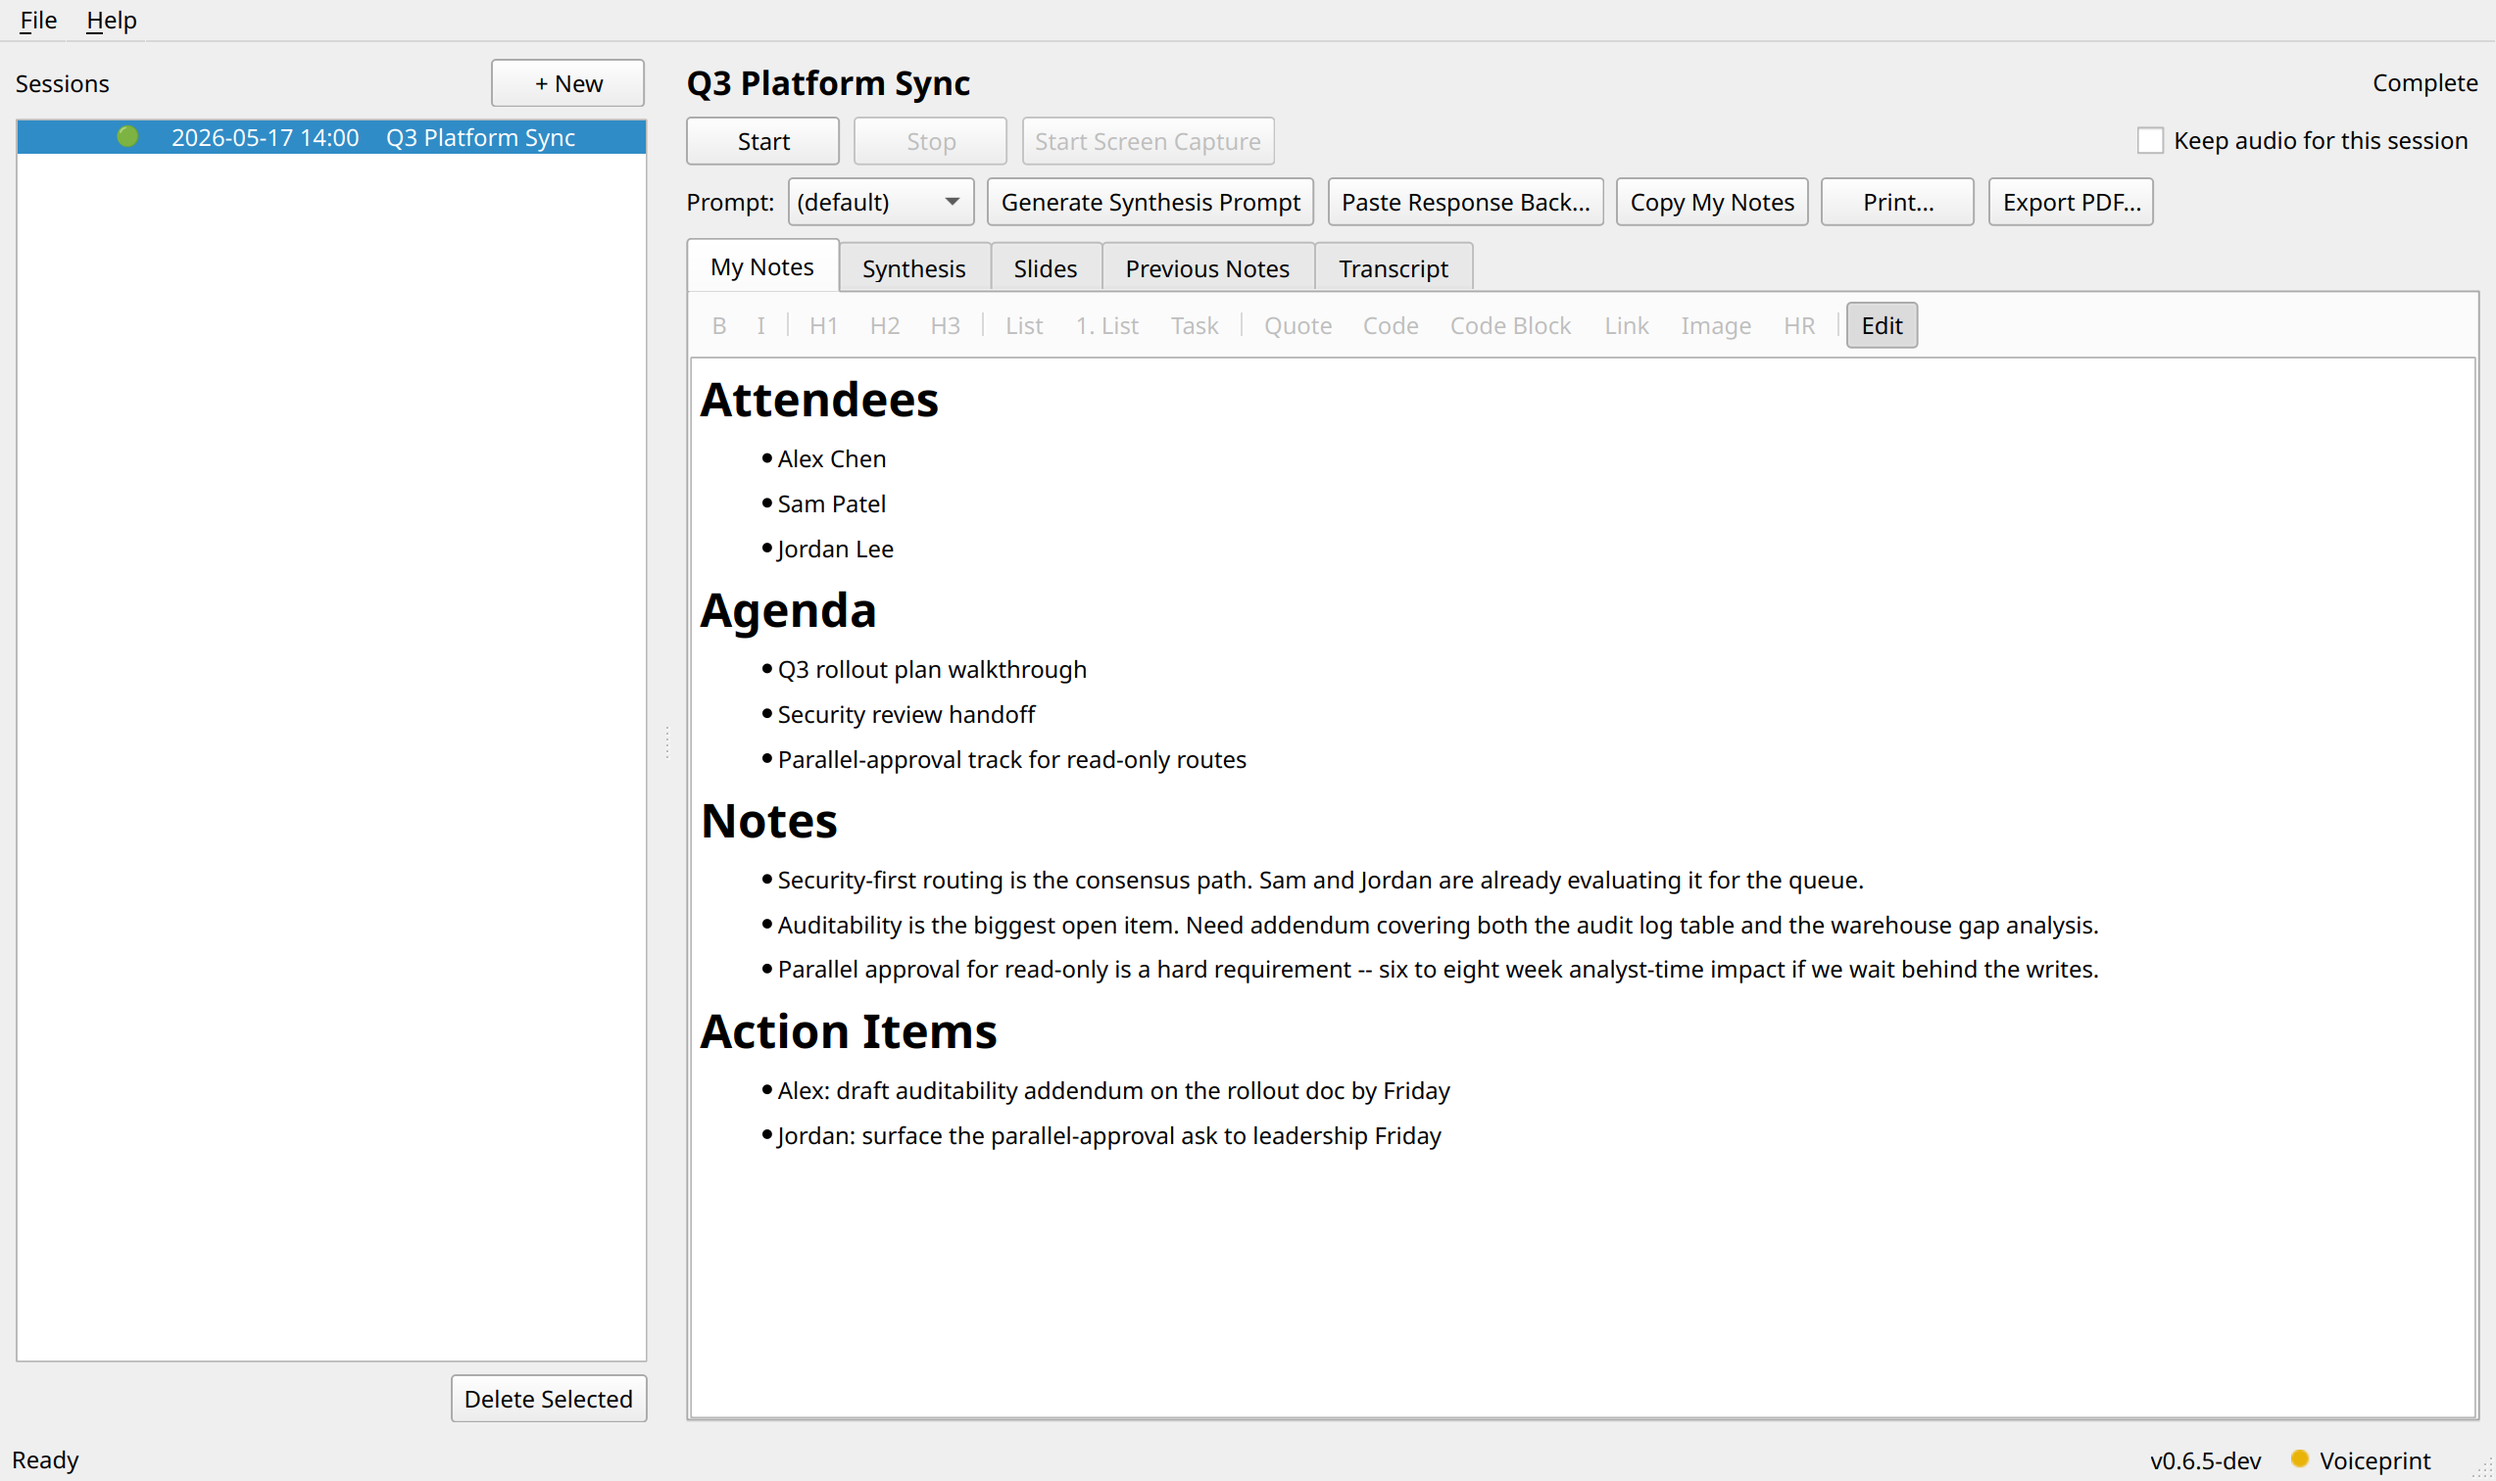
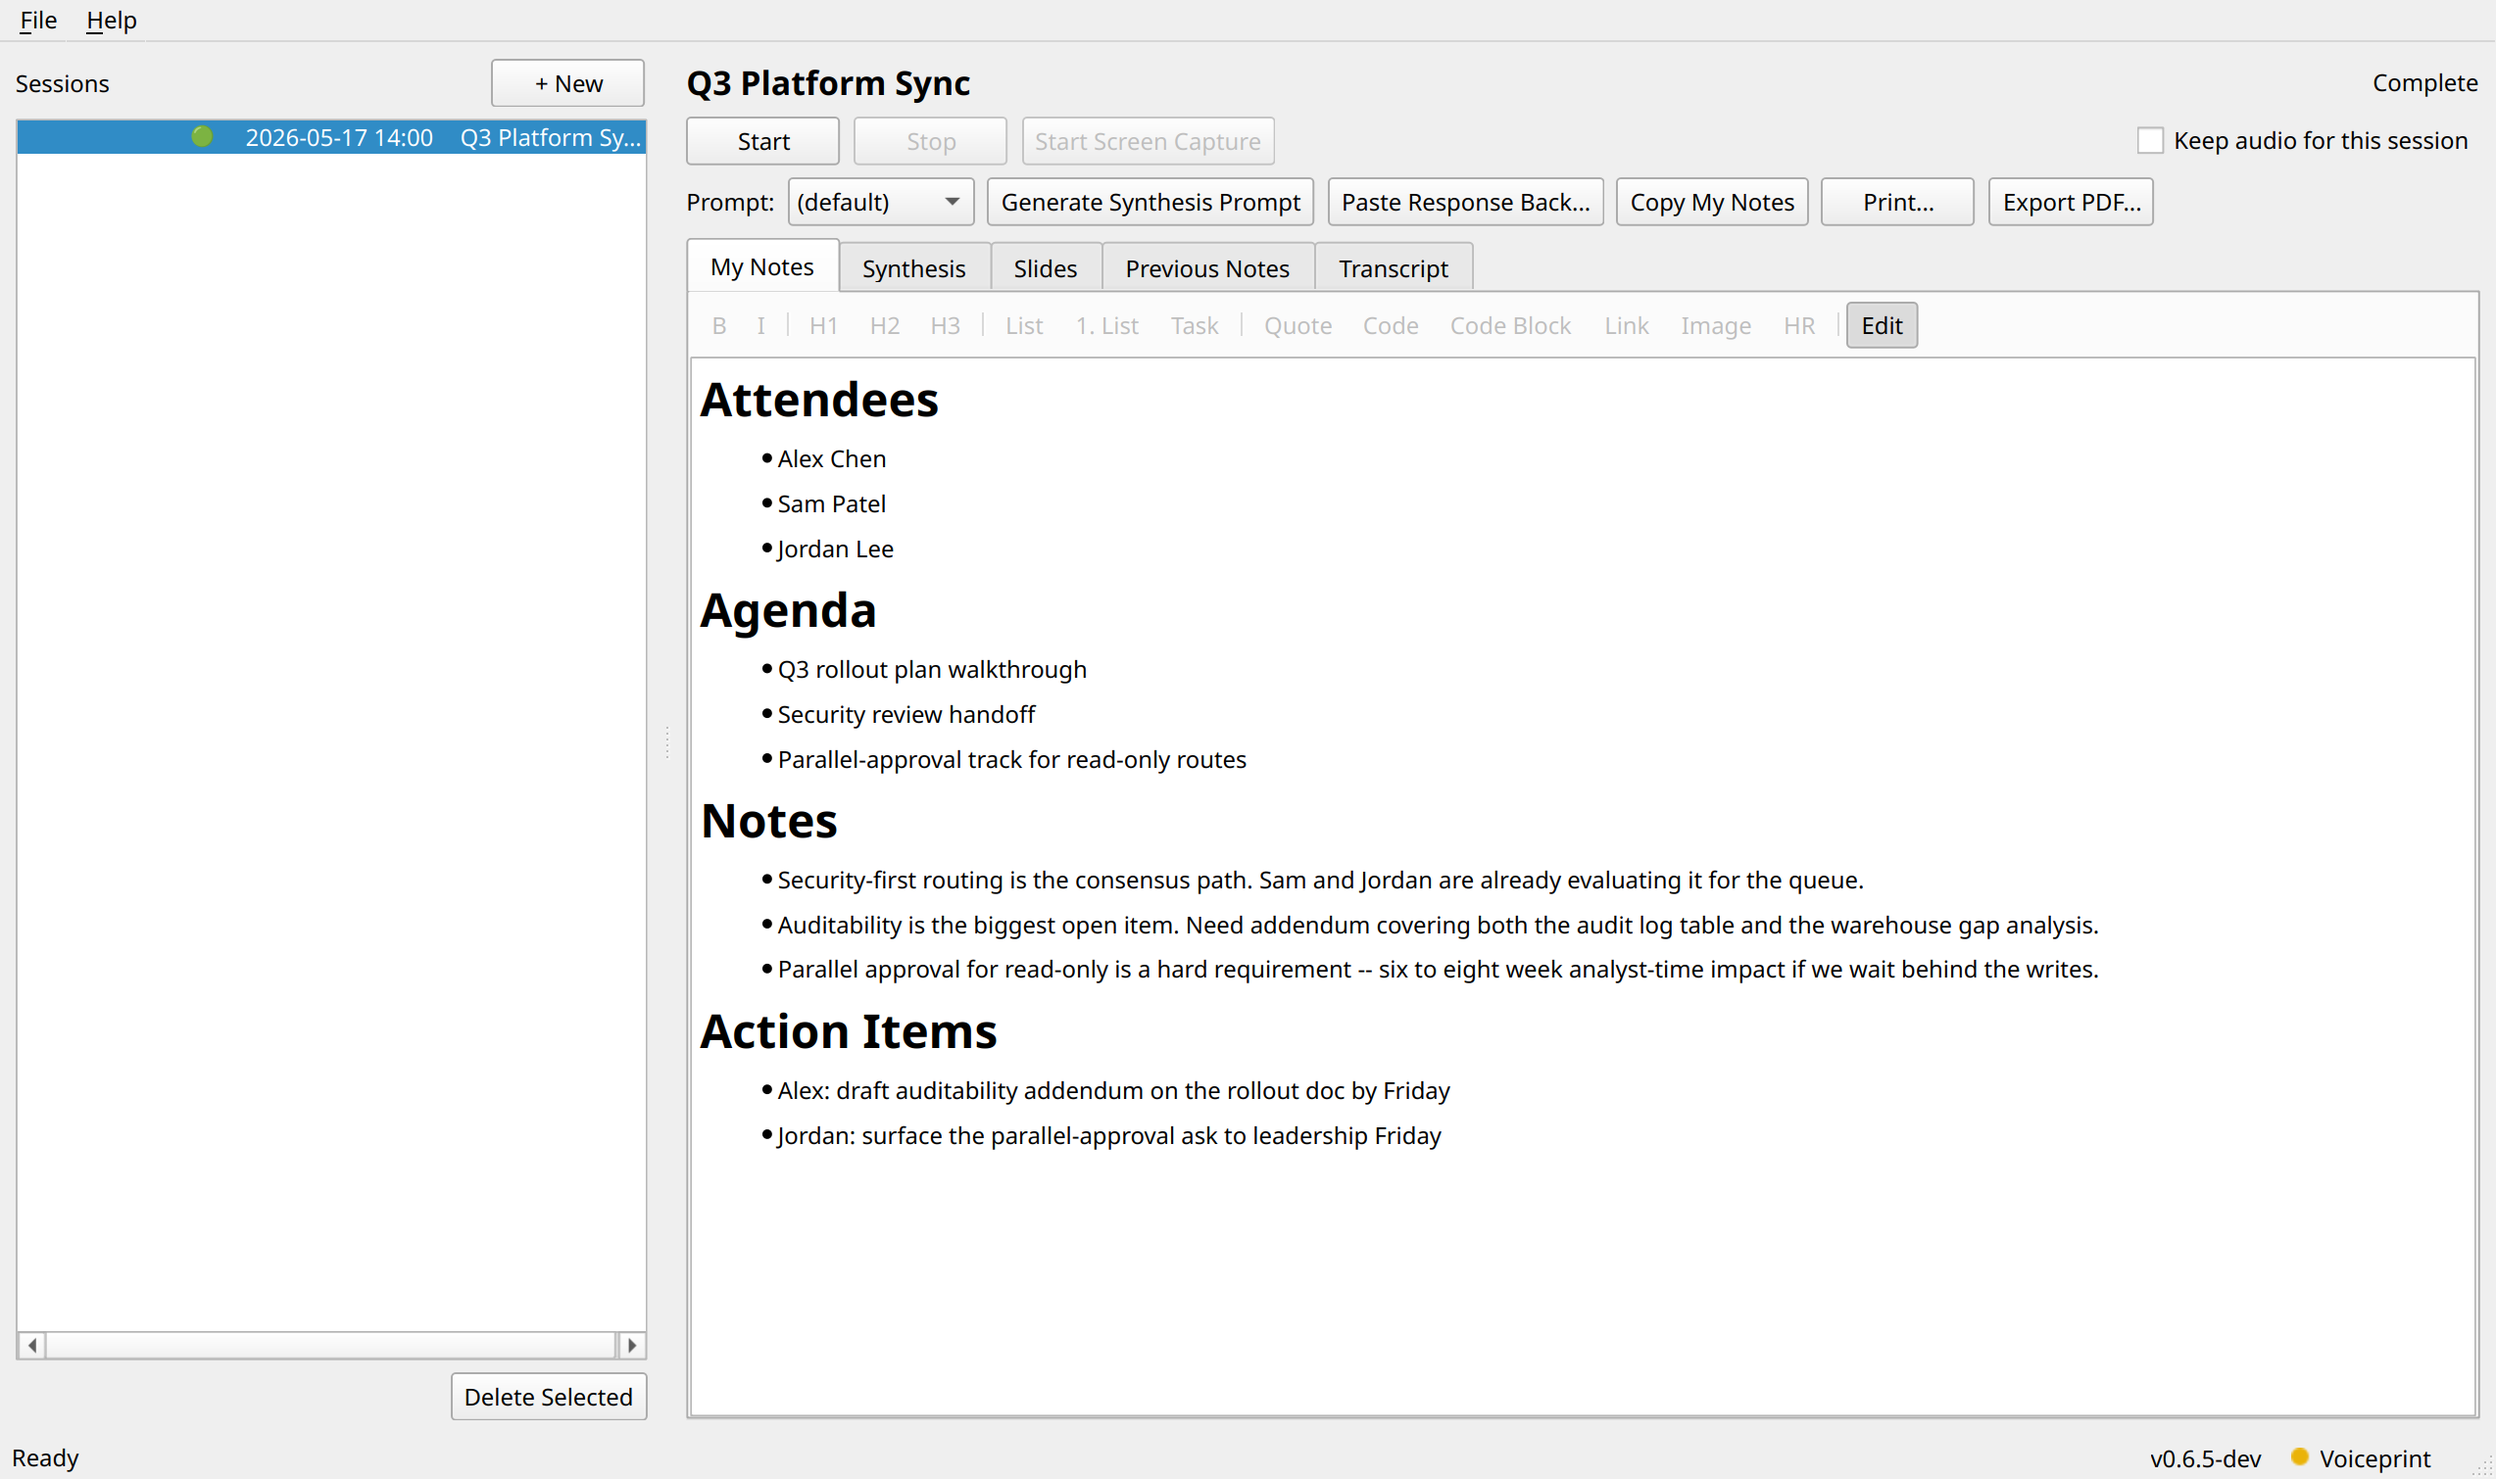
Help > About + User Guide; session-list screenshots column
* Help > About... -- modal dialog with version, description,
  attribution ("vibe coded by Claude Code via Aaron Dodd"), repo
  link, and MIT license note. Standard about-dialog shape.
* Help > User Guide... -- opens the GitHub README at the
  #user-guide anchor via QDesktopServices.openUrl. Single source
  of truth: the README on GitHub (where mermaid renders) is the
  how-to; no in-app duplication to keep in sync.
* Session list grows a new fixed-width column between Audio and
  State that shows 📷 when the session has any screenshots on
  disk (mirrors the existing 🔊 audio indicator). Hover for
  "Screenshots saved on disk for this session" / "No screenshots
  captured...".

755 tests still passing.

diff --git a/meeting_notetaker/ui/main_window.py b/meeting_notetaker/ui/main_window.py
@@ -63,9 +63,10 @@ _STATE_BADGE: dict[str, tuple[str, str]] = {
 }
 
 _COL_AUDIO = 0
-_COL_STATE = 1
-_COL_DATE = 2
-_COL_TITLE = 3
+_COL_SLIDES = 1
+_COL_STATE = 2
+_COL_DATE = 3
+_COL_TITLE = 4
 
 
 class MainWindow(QMainWindow):
@@ -75,6 +76,8 @@ class MainWindow(QMainWindow):
     open_outlook_diagnostic_requested = pyqtSignal()
     open_log_viewer_requested = pyqtSignal()
     open_dependency_check_requested = pyqtSignal()
+    open_about_requested = pyqtSignal()
+    open_user_guide_requested = pyqtSignal()
     check_for_updates_requested = pyqtSignal()
     upgrade_requested = pyqtSignal()
     quit_requested = pyqtSignal()
@@ -124,12 +127,20 @@ class MainWindow(QMainWindow):
         action_depcheck.triggered.connect(self.open_dependency_check_requested.emit)
         debug_menu.addAction(action_depcheck)
         help_menu.addSeparator()
+        action_user_guide = QAction("&User Guide...", self)
+        action_user_guide.triggered.connect(self.open_user_guide_requested.emit)
+        help_menu.addAction(action_user_guide)
+        help_menu.addSeparator()
         action_check_updates = QAction("Check for &Updates...", self)
         action_check_updates.triggered.connect(self.check_for_updates_requested.emit)
         help_menu.addAction(action_check_updates)
         action_upgrade = QAction("&Upgrade...", self)
         action_upgrade.triggered.connect(self.upgrade_requested.emit)
         help_menu.addAction(action_upgrade)
+        help_menu.addSeparator()
+        action_about = QAction("&About Meeting Notetaker...", self)
+        action_about.triggered.connect(self.open_about_requested.emit)
+        help_menu.addAction(action_about)
 
         # Body: splitter
         central = QWidget(self)
@@ -151,7 +162,7 @@ class MainWindow(QMainWindow):
         header_row.addWidget(self._new_btn)
         left_layout.addLayout(header_row)
         self._list = QTreeWidget(left)
-        self._list.setColumnCount(4)
+        self._list.setColumnCount(5)
         self._list.setHeaderHidden(True)
         self._list.setRootIsDecorated(False)
         self._list.setUniformRowHeights(True)
@@ -163,13 +174,16 @@ class MainWindow(QMainWindow):
         rename_shortcut = QShortcut(QKeySequence(Qt.Key.Key_F2), self._list)
         rename_shortcut.activated.connect(self._rename_selected)
         header = self._list.header()
-        # Audio + state are narrow glyph columns; date is fixed-width
-        # to fit "YYYY-MM-DD HH:MM"; title takes the remaining space.
+        # Audio + slides + state are narrow glyph columns; date is
+        # fixed-width to fit "YYYY-MM-DD HH:MM"; title takes the
+        # remaining space.
         header.setSectionResizeMode(_COL_AUDIO, QHeaderView.ResizeMode.Fixed)
+        header.setSectionResizeMode(_COL_SLIDES, QHeaderView.ResizeMode.Fixed)
         header.setSectionResizeMode(_COL_STATE, QHeaderView.ResizeMode.Fixed)
         header.setSectionResizeMode(_COL_DATE, QHeaderView.ResizeMode.Fixed)
         header.setSectionResizeMode(_COL_TITLE, QHeaderView.ResizeMode.Stretch)
         self._list.setColumnWidth(_COL_AUDIO, 28)
+        self._list.setColumnWidth(_COL_SLIDES, 28)
         self._list.setColumnWidth(_COL_STATE, 28)
         self._list.setColumnWidth(_COL_DATE, 110)
         left_layout.addWidget(self._list, 1)
@@ -272,19 +286,33 @@ class MainWindow(QMainWindow):
             if s.has_audio
             else "Audio status: not retained (recording deleted after refinement)"
         )
+        # Camera glyph if any screenshots are on disk for this session.
+        # has_retained_audio mirrors this pattern for audio; we use the
+        # same path helper here.
+        from ..utils.paths import list_screenshots  # noqa: PLC0415
+        has_slides = bool(list_screenshots(s.id))
+        slides_glyph = "📷" if has_slides else ""
+        slides_tooltip = (
+            "Screenshots saved on disk for this session"
+            if has_slides
+            else "No screenshots captured for this session"
+        )
         state_glyph, state_tooltip = _STATE_BADGE.get(s.state, ("", s.state))
         state_tooltip = f"Transcription state: {state_tooltip}"
 
         when, title = _session_date_and_title(s)
         item = QTreeWidgetItem([
             audio_glyph,
+            slides_glyph,
             state_glyph,
             when,
             title,
         ])
         item.setTextAlignment(_COL_AUDIO, Qt.AlignmentFlag.AlignCenter)
+        item.setTextAlignment(_COL_SLIDES, Qt.AlignmentFlag.AlignCenter)
         item.setTextAlignment(_COL_STATE, Qt.AlignmentFlag.AlignCenter)
         item.setToolTip(_COL_AUDIO, audio_tooltip)
+        item.setToolTip(_COL_SLIDES, slides_tooltip)
         item.setToolTip(_COL_STATE, state_tooltip)
         item.setData(_COL_TITLE, Qt.ItemDataRole.UserRole, s.id)
         # Stash the full ISO created_at so Edit Timestamp can seed the

diff --git a/meeting_notetaker/ui/about_dialog.py b/meeting_notetaker/ui/about_dialog.py
@@ -1,0 +1,99 @@
+"""Help > About dialog.
+
+Standard "about this app" surface: name, version, short description,
+attribution, repo + license links. Read-only, modal, dismiss with
+OK or Esc.
+"""
+from __future__ import annotations
+
+from typing import Optional
+
+from PyQt6.QtCore import Qt, QUrl
+from PyQt6.QtGui import QDesktopServices
+from PyQt6.QtWidgets import (
+    QDialog,
+    QDialogButtonBox,
+    QLabel,
+    QVBoxLayout,
+    QWidget,
+)
+
+from ..version import __version__
+
+
+_REPO_URL = "https://github.com/aarondodd/meeting-notetaker"
+
+
+class AboutDialog(QDialog):
+    """Modal About dialog. Shows app metadata + attribution."""
+
+    def __init__(self, parent: Optional[QWidget] = None) -> None:
+        super().__init__(parent)
+        self.setWindowTitle("About Meeting Notetaker")
+        self.setModal(True)
+        self.setMinimumWidth(440)
+
+        layout = QVBoxLayout(self)
+        layout.setSpacing(12)
+
+        title = QLabel("<h2>Meeting Notetaker</h2>", self)
+        title.setTextFormat(Qt.TextFormat.RichText)
+        layout.addWidget(title)
+
+        version = QLabel(f"<b>Version:</b> {__version__}", self)
+        version.setTextFormat(Qt.TextFormat.RichText)
+        layout.addWidget(version)
+
+        description = QLabel(
+            "Local meeting capture for Windows. Records mic + system "
+            "audio, transcribes on-device with faster-whisper, captures "
+            "screen regions, plays the recording back with transcript "
+            "sync, and hands the transcript to your LLM of choice for "
+            "synthesis. No audio leaves the machine; no API key required.",
+            self,
+        )
+        description.setWordWrap(True)
+        layout.addWidget(description)
+
+        attribution = QLabel(
+            "<b>Vibe coded</b> by <a href=\"https://www.anthropic.com/"
+            "claude-code\">Claude Code</a> via Aaron Dodd. "
+            "<a href=\"https://www.anthropic.com/news/claude-code\">"
+            "Claude Code</a> is Anthropic's agentic coding tool; the "
+            "human-in-the-loop drove direction, design feedback, and "
+            "real-world Windows testing across the v0.x development "
+            "cycle.",
+            self,
+        )
+        attribution.setWordWrap(True)
+        attribution.setTextFormat(Qt.TextFormat.RichText)
+        attribution.setOpenExternalLinks(True)
+        layout.addWidget(attribution)
+
+        repo = QLabel(
+            f"<b>Source:</b> <a href=\"{_REPO_URL}\">{_REPO_URL}</a>",
+            self,
+        )
+        repo.setTextFormat(Qt.TextFormat.RichText)
+        repo.setOpenExternalLinks(True)
+        repo.setTextInteractionFlags(
+            Qt.TextInteractionFlag.TextBrowserInteraction
+        )
+        layout.addWidget(repo)
+
+        license_label = QLabel(
+            "<b>License:</b> MIT. See "
+            f"<a href=\"{_REPO_URL}/blob/main/LICENSE\">LICENSE</a> in "
+            "the repository.",
+            self,
+        )
+        license_label.setTextFormat(Qt.TextFormat.RichText)
+        license_label.setOpenExternalLinks(True)
+        layout.addWidget(license_label)
+
+        # OK / dismiss button.
+        buttons = QDialogButtonBox(
+            QDialogButtonBox.StandardButton.Ok, parent=self,
+        )
+        buttons.accepted.connect(self.accept)
+        layout.addWidget(buttons)

diff --git a/meeting_notetaker/app.py b/meeting_notetaker/app.py
@@ -825,6 +825,8 @@ class MainApp(QObject):
         self.window.open_outlook_diagnostic_requested.connect(self._on_outlook_diagnostic)
         self.window.open_log_viewer_requested.connect(self._on_log_viewer)
         self.window.open_dependency_check_requested.connect(self._on_dependency_check)
+        self.window.open_about_requested.connect(self._on_about)
+        self.window.open_user_guide_requested.connect(self._on_user_guide)
         self.window.check_for_updates_requested.connect(self._on_check_for_updates)
         self.window.upgrade_requested.connect(self._on_upgrade)
         self.window.quit_requested.connect(self.qt_app.quit)
@@ -2073,6 +2075,25 @@ class MainApp(QObject):
         self._dep_check.show()
         self._dep_check.raise_()
         self._dep_check.activateWindow()
+
+    def _on_about(self) -> None:
+        from .ui.about_dialog import AboutDialog  # noqa: PLC0415
+        AboutDialog(parent=self.window).exec()
+
+    def _on_user_guide(self) -> None:
+        """Open the GitHub README at the User Guide anchor.
+
+        Keeping the how-to in the README (where mermaid renders) and
+        deep-linking from the app avoids maintaining two copies. The
+        repo's main branch is the source of truth; if the user is on
+        an older build the link still points to the latest docs --
+        appropriate for a how-to-use guide.
+        """
+        from PyQt6.QtCore import QUrl  # noqa: PLC0415
+        from PyQt6.QtGui import QDesktopServices  # noqa: PLC0415
+        QDesktopServices.openUrl(QUrl(
+            "https://github.com/aarondodd/meeting-notetaker#user-guide"
+        ))
 
     def _on_settings(self) -> None:
         dialog = SettingsDialog(
